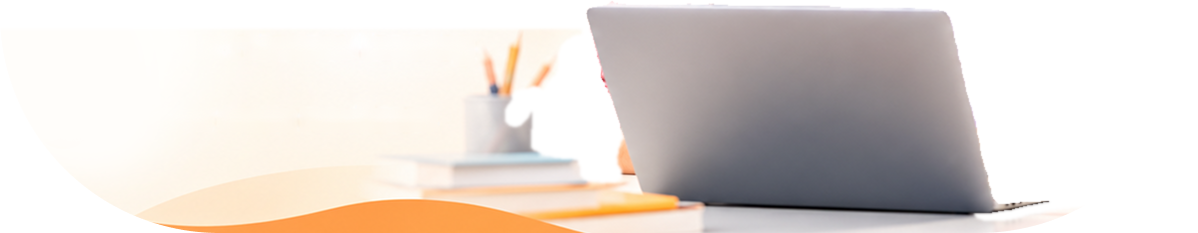
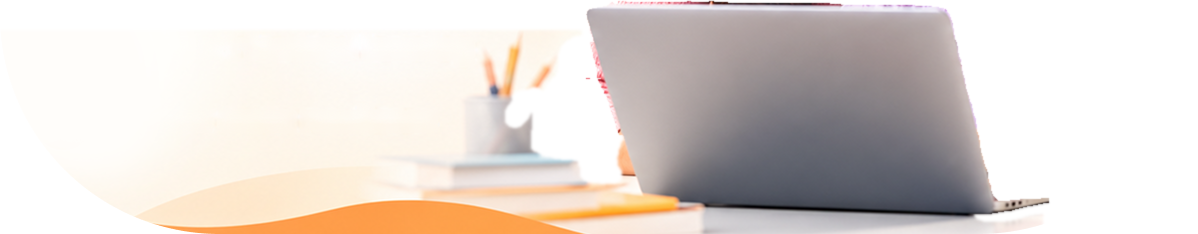
Parent cover: stronger, clearer motion (lean, nods, smile tone, card pop); hidden strip behind the laptop deepened
Claude-Session: https://claude.ai/code/session_01RrgPSv5FZEd99BayXaAJSG

diff --git a/parent-hero-animation/email-record.html b/parent-hero-animation/email-record.html
@@ -54,7 +54,7 @@
   /* --- cards (behind the people): outer = idle float, inner = pop / retreat --- */
   .float{ will-change:transform; }
   .idle .float{ animation:cardFloat var(--fdur) ease-in-out var(--fdelay) infinite; }
-  @keyframes cardFloat{ 0%,100%{ transform:translateY(0) rotate(0) } 50%{ transform:translateY(calc(100cqw/1198 * -12)) rotate(1.2deg) } }
+  @keyframes cardFloat{ 0%,100%{ transform:translateY(0) rotate(0) } 50%{ transform:translateY(calc(100cqw/1198 * -16)) rotate(1.6deg) } }
   .pop{ position:absolute; inset:0; }
   .popping{ will-change:transform, opacity; }
   .card-glow{ position:absolute; border-radius:50%; opacity:0; pointer-events:none;
@@ -68,7 +68,7 @@
   .moving{ will-change:transform, filter; }
   .breathe{ position:absolute; inset:0; transform-origin:71% 90%; }
   .idle .breathe{ animation:breathe 4s ease-in-out infinite; }
-  @keyframes breathe{ 0%,100%{ transform:scale(1) } 50%{ transform:scale(1.006) } }
+  @keyframes breathe{ 0%,100%{ transform:scale(1) } 50%{ transform:scale(var(--breathe, 1.006)) } }
   .overlay{ position:absolute; border-radius:50%; opacity:0; pointer-events:none; }
   .screen-glow{ background:radial-gradient(closest-side, var(--screen-glow), rgba(170,205,255,0)); mix-blend-mode:soft-light; }
   .smile-warm{ background:radial-gradient(closest-side, var(--smile-warm), rgba(255,190,140,0)); mix-blend-mode:soft-light; }
@@ -113,6 +113,14 @@ const HOLD_TIME     = EMAIL_MODE ? 2600 : 4000;
 const RETREAT_TIME  = 500;
 const RETREAT_STAGGER = 100;
 const BLOB_SPEED    = 1;         // >1 slower background drift
+// motion strength (canvas px are 1198-wide units; the email GIF is half that size)
+const SIT_BACK      = { rot:-2.2, dx:-6, dy:8, scale:.985 };   // loop start: sitting back, a touch cooler
+const LEAN          = { rot:1.3,  dx:6,  dy:4, scale:.995 };   // leaning in toward the laptop
+const NOD           = { rot:2.6,  dx:9,  dy:14 };              // bottom of each nod
+const SMILE_PEAK    = { rot:-1.3, scale:1.02 };                // leaning together at the smile peak
+const TONE_START    = 'saturate(.8) brightness(.93)';          // attentive tone
+const TONE_PEAK     = 'saturate(1.14) brightness(1.06)';       // smile peak (settles to the untouched photo)
+const SCREEN_GLOW   = .32, SMILE_WARM = .5, BREATHE = 1.012;
 const INTRO_TIME    = 700;       // people fade in (first run and Replay only)
 
 /* ============================================================
@@ -134,7 +142,7 @@ const LAYERS = {
   HEART: { card:{ file:'assets/layers/card-heart.png', x:966, y:78, w:186, h:175 }, icon:{ file:'assets/layers/heart-icon.png', x:1027, y:140, w:68, h:59 }, centre:[1059, 163], tilt:7.8 },
   CAP:   { card:{ file:'assets/layers/card-cap.png', x:1050, y:239, w:148, h:151 }, icon:{ file:'assets/layers/cap-icon.png', x:1092, y:288, w:66, h:55 }, centre:[1124, 314], tilt:10 },
   PEOPLE:     { file:'assets/layers/people.png', x:0, y:0, w:1222, h:824, z:5 },      // right and bottom edges padded 24 units
-  FOREGROUND: { file:'assets/layers/foreground.png', x:0, y:567, w:1198, h:233, z:6 }, // laptop, desk, books, pencil cup (still)
+  FOREGROUND: { file:'assets/layers/foreground.png', x:0, y:566, w:1198, h:234, z:6 }, // laptop, desk, books, pencil cup (still)
 };
 // where each card hides (from its centre): a point well inside the people's silhouette, measured from people.png's alpha
 const CARD_HIDE = { chart:{ dx:21, dy:98, fdur:'3.2s', fdelay:'0s' }, heart:{ dx:-42, dy:184, fdur:'3.8s', fdelay:'-.9s' }, cap:{ dx:-89, dy:49, fdur:'4.4s', fdelay:'-1.7s' } };
@@ -209,9 +217,10 @@ let runId = 0; const running = new Set();
 function anim(el, frames, opts){ const a = el.animate(frames, { fill:'forwards', ...opts }); running.add(a); return a; }
 function cancelAll(){ running.forEach(a => a.cancel()); running.clear(); }
 // attentive = the start of each loop (slightly cooler, sitting back a touch); smiling = the original photo, untouched
-const ATTENTIVE = 'saturate(.92) brightness(.97)', SMILING = 'saturate(1) brightness(1)';
-const BACK = 'rotate(-.8deg) scale(.994)', LEANED = 'rotate(.3deg) scale(.997)', TOGETHER = 'rotate(0deg) scale(1)';
-const hiddenT = g => `translate(${U(g.hide.dx)}, ${U(g.hide.dy)}) scale(.5) rotate(-6deg)`;
+const ATTENTIVE = TONE_START, SMILING = 'saturate(1) brightness(1)';
+const P = (o, sc = 1) => `translate(${U(o.dx || 0)}, ${U(o.dy || 0)}) rotate(${o.rot}deg) scale(${o.scale || sc})`;
+const BACK = P(SIT_BACK), LEANED = P(LEAN), NODDED = P(NOD, LEAN.scale), TOGETHER = P({ rot:0 });
+const hiddenT = g => `translate(${U(g.hide.dx)}, ${U(g.hide.dy)}) scale(.4) rotate(-8deg)`;
 
 function setStart(){
   hero.classList.remove('idle');
@@ -234,16 +243,16 @@ function setFinal(){
 async function teach(id){                                                  // Phase 1
   pose.classList.add('moving');
   anim(pose, [{ transform:BACK }, { transform:LEANED }], { duration:900, easing:'ease-in-out' });
-  anim(screenGlow, [{ opacity:0 }, { opacity:.15, offset:.5 }, { opacity:0 }], { duration:TEACH_TIME, easing:'ease-in-out' });
+  anim(screenGlow, [{ opacity:0 }, { opacity:SCREEN_GLOW, offset:.5 }, { opacity:0 }], { duration:TEACH_TIME, easing:'ease-in-out' });
   await sleep(900); if (id !== runId) return;
   for (let i = 0; i < 2; i++){                                             // two soft nods
-    anim(pose, [{ transform:LEANED }, { transform:`rotate(.9deg) translateY(${U(3)}) scale(.997)`, offset:.45 }, { transform:LEANED }], { duration:600, easing:'ease-in-out' });
+    anim(pose, [{ transform:LEANED }, { transform:NODDED, offset:.45 }, { transform:LEANED }], { duration:600, easing:'ease-in-out' });
     await sleep(600 + (i === 0 ? 50 : 0)); if (id !== runId) return;
   }
 }
 function smile(){                                                          // Phase 2 (returns at the smile peak)
-  anim(pose, [{ transform:LEANED, filter:ATTENTIVE }, { transform:'rotate(-.4deg) scale(1.012)', filter:'saturate(1.06) brightness(1.03)', offset:.6 }, { transform:TOGETHER, filter:SMILING }], { duration:SMILE_TIME + 600, easing:'ease-out' });
-  anim(smileWarm, [{ opacity:0 }, { opacity:.25, offset:.4 }, { opacity:0 }], { duration:SMILE_TIME + 900, easing:'ease-in-out' });
+  anim(pose, [{ transform:LEANED, filter:ATTENTIVE }, { transform:P(SMILE_PEAK), filter:TONE_PEAK, offset:.6 }, { transform:TOGETHER, filter:SMILING }], { duration:SMILE_TIME + 600, easing:'ease-out' });
+  anim(smileWarm, [{ opacity:0 }, { opacity:SMILE_WARM, offset:.4 }, { opacity:0 }], { duration:SMILE_TIME + 900, easing:'ease-in-out' });
   return sleep(SMILE_TIME * .6);
 }
 function popCard(g, delay){                                                // Phase 3
@@ -252,7 +261,7 @@ function popCard(g, delay){                                                // Ph
     { transform:hiddenT(g), opacity:0, offset:0 },
     { opacity:0, offset:.15 },                                             // still covered by the people
     { opacity:1, offset:.45 },
-    { transform:'translate(0,0) scale(1.06) rotate(0deg)', offset:.8 },
+    { transform:'translate(0,0) scale(1.1) rotate(0deg)', offset:.8 },
     { transform:'translate(0,0) scale(1) rotate(0deg)', opacity:1 }
   ], { duration:CARD_POP_TIME, delay, easing:'cubic-bezier(0.34, 1.4, 0.64, 1)' });
   anim(g.glow, [{ opacity:0 }, { opacity:.35, offset:.5 }, { opacity:0 }], { duration:700, delay:delay + CARD_POP_TIME * .3, easing:'ease-out' });
@@ -263,9 +272,9 @@ function cardDetails(){
   anim(G.chart.arrow, [{ clipPath:'inset(0 100% 0 0)' }, { clipPath:'inset(0 0% 0 0)' }], { duration:550, delay:land * .6 + 360, easing:'ease-out' });
   anim(dots, [{ opacity:0 }, { opacity:.9, offset:.8 }, { opacity:1 }], { duration:600, delay:0, easing:'ease-out' });
   const heartAt = CARD_STAGGER + land;
-  anim(G.heart.icon, [{ transform:'scale(1)' }, { transform:'scale(1.15)', offset:.2 }, { transform:'scale(1)', offset:.45 }, { transform:'scale(1.08)', offset:.65 }, { transform:'scale(1)' }], { duration:700, delay:heartAt, easing:'ease-in-out' });
+  anim(G.heart.icon, [{ transform:'scale(1)' }, { transform:'scale(1.25)', offset:.2 }, { transform:'scale(1)', offset:.45 }, { transform:'scale(1.12)', offset:.65 }, { transform:'scale(1)' }], { duration:700, delay:heartAt, easing:'ease-in-out' });
   const capAt = CARD_STAGGER * 2 + land;
-  anim(G.cap.icon, [{ transform:'none' }, { transform:`rotate(-4deg) translateY(${U(-2)})`, offset:.3 }, { transform:`rotate(4deg) translateY(${U(-2)})`, offset:.65 }, { transform:`translateY(${U(-2)})` }], { duration:500, delay:capAt, easing:'ease-in-out' });
+  anim(G.cap.icon, [{ transform:'none' }, { transform:`rotate(-8deg) translateY(${U(-4)})`, offset:.3 }, { transform:`rotate(7deg) translateY(${U(-4)})`, offset:.65 }, { transform:'none' }], { duration:650, delay:capAt, easing:'ease-in-out' });
   sparks.forEach((s, i) => {
     const at = (s.L.card === 'chart' ? land : capAt) + (i % 2) * 150;
     anim(s.el, [{ opacity:0, transform:'scale(0)' }, { opacity:1, transform:'scale(1)' }], { duration:260, delay:at, easing:'ease-out' });
@@ -308,6 +317,7 @@ async function play(firstRun){
 }
 
 /* ---------- start ---------- */
+hero.style.setProperty('--breathe', BREATHE);
 const reduce = matchMedia('(prefers-reduced-motion: reduce)');
 function showStatic(){ runId++; cancelAll(); hero.classList.remove('idle'); hero.classList.add('static'); setFinal(); }
 document.getElementById('replay').addEventListener('click', () => reduce.matches ? showStatic() : play(true));

diff --git a/parent-hero-animation/index.html b/parent-hero-animation/index.html
@@ -54,7 +54,7 @@
   /* --- cards (behind the people): outer = idle float, inner = pop / retreat --- */
   .float{ will-change:transform; }
   .idle .float{ animation:cardFloat var(--fdur) ease-in-out var(--fdelay) infinite; }
-  @keyframes cardFloat{ 0%,100%{ transform:translateY(0) rotate(0) } 50%{ transform:translateY(calc(100cqw/1198 * -12)) rotate(1.2deg) } }
+  @keyframes cardFloat{ 0%,100%{ transform:translateY(0) rotate(0) } 50%{ transform:translateY(calc(100cqw/1198 * -16)) rotate(1.6deg) } }
   .pop{ position:absolute; inset:0; }
   .popping{ will-change:transform, opacity; }
   .card-glow{ position:absolute; border-radius:50%; opacity:0; pointer-events:none;
@@ -68,7 +68,7 @@
   .moving{ will-change:transform, filter; }
   .breathe{ position:absolute; inset:0; transform-origin:71% 90%; }
   .idle .breathe{ animation:breathe 4s ease-in-out infinite; }
-  @keyframes breathe{ 0%,100%{ transform:scale(1) } 50%{ transform:scale(1.006) } }
+  @keyframes breathe{ 0%,100%{ transform:scale(1) } 50%{ transform:scale(var(--breathe, 1.006)) } }
   .overlay{ position:absolute; border-radius:50%; opacity:0; pointer-events:none; }
   .screen-glow{ background:radial-gradient(closest-side, var(--screen-glow), rgba(170,205,255,0)); mix-blend-mode:soft-light; }
   .smile-warm{ background:radial-gradient(closest-side, var(--smile-warm), rgba(255,190,140,0)); mix-blend-mode:soft-light; }
@@ -107,6 +107,14 @@ const HOLD_TIME     = EMAIL_MODE ? 2600 : 4000;
 const RETREAT_TIME  = 500;
 const RETREAT_STAGGER = 100;
 const BLOB_SPEED    = 1;         // >1 slower background drift
+// motion strength (canvas px are 1198-wide units; the email GIF is half that size)
+const SIT_BACK      = { rot:-2.2, dx:-6, dy:8, scale:.985 };   // loop start: sitting back, a touch cooler
+const LEAN          = { rot:1.3,  dx:6,  dy:4, scale:.995 };   // leaning in toward the laptop
+const NOD           = { rot:2.6,  dx:9,  dy:14 };              // bottom of each nod
+const SMILE_PEAK    = { rot:-1.3, scale:1.02 };                // leaning together at the smile peak
+const TONE_START    = 'saturate(.8) brightness(.93)';          // attentive tone
+const TONE_PEAK     = 'saturate(1.14) brightness(1.06)';       // smile peak (settles to the untouched photo)
+const SCREEN_GLOW   = .32, SMILE_WARM = .5, BREATHE = 1.012;
 const INTRO_TIME    = 700;       // people fade in (first run and Replay only)
 
 /* ============================================================
@@ -128,7 +136,7 @@ const LAYERS = {
   HEART: { card:{ file:'assets/layers/card-heart.png', x:966, y:78, w:186, h:175 }, icon:{ file:'assets/layers/heart-icon.png', x:1027, y:140, w:68, h:59 }, centre:[1059, 163], tilt:7.8 },
   CAP:   { card:{ file:'assets/layers/card-cap.png', x:1050, y:239, w:148, h:151 }, icon:{ file:'assets/layers/cap-icon.png', x:1092, y:288, w:66, h:55 }, centre:[1124, 314], tilt:10 },
   PEOPLE:     { file:'assets/layers/people.png', x:0, y:0, w:1222, h:824, z:5 },      // right and bottom edges padded 24 units
-  FOREGROUND: { file:'assets/layers/foreground.png', x:0, y:567, w:1198, h:233, z:6 }, // laptop, desk, books, pencil cup (still)
+  FOREGROUND: { file:'assets/layers/foreground.png', x:0, y:566, w:1198, h:234, z:6 }, // laptop, desk, books, pencil cup (still)
 };
 // where each card hides (from its centre): a point well inside the people's silhouette, measured from people.png's alpha
 const CARD_HIDE = { chart:{ dx:21, dy:98, fdur:'3.2s', fdelay:'0s' }, heart:{ dx:-42, dy:184, fdur:'3.8s', fdelay:'-.9s' }, cap:{ dx:-89, dy:49, fdur:'4.4s', fdelay:'-1.7s' } };
@@ -203,9 +211,10 @@ let runId = 0; const running = new Set();
 function anim(el, frames, opts){ const a = el.animate(frames, { fill:'forwards', ...opts }); running.add(a); return a; }
 function cancelAll(){ running.forEach(a => a.cancel()); running.clear(); }
 // attentive = the start of each loop (slightly cooler, sitting back a touch); smiling = the original photo, untouched
-const ATTENTIVE = 'saturate(.92) brightness(.97)', SMILING = 'saturate(1) brightness(1)';
-const BACK = 'rotate(-.8deg) scale(.994)', LEANED = 'rotate(.3deg) scale(.997)', TOGETHER = 'rotate(0deg) scale(1)';
-const hiddenT = g => `translate(${U(g.hide.dx)}, ${U(g.hide.dy)}) scale(.5) rotate(-6deg)`;
+const ATTENTIVE = TONE_START, SMILING = 'saturate(1) brightness(1)';
+const P = (o, sc = 1) => `translate(${U(o.dx || 0)}, ${U(o.dy || 0)}) rotate(${o.rot}deg) scale(${o.scale || sc})`;
+const BACK = P(SIT_BACK), LEANED = P(LEAN), NODDED = P(NOD, LEAN.scale), TOGETHER = P({ rot:0 });
+const hiddenT = g => `translate(${U(g.hide.dx)}, ${U(g.hide.dy)}) scale(.4) rotate(-8deg)`;
 
 function setStart(){
   hero.classList.remove('idle');
@@ -228,16 +237,16 @@ function setFinal(){
 async function teach(id){                                                  // Phase 1
   pose.classList.add('moving');
   anim(pose, [{ transform:BACK }, { transform:LEANED }], { duration:900, easing:'ease-in-out' });
-  anim(screenGlow, [{ opacity:0 }, { opacity:.15, offset:.5 }, { opacity:0 }], { duration:TEACH_TIME, easing:'ease-in-out' });
+  anim(screenGlow, [{ opacity:0 }, { opacity:SCREEN_GLOW, offset:.5 }, { opacity:0 }], { duration:TEACH_TIME, easing:'ease-in-out' });
   await sleep(900); if (id !== runId) return;
   for (let i = 0; i < 2; i++){                                             // two soft nods
-    anim(pose, [{ transform:LEANED }, { transform:`rotate(.9deg) translateY(${U(3)}) scale(.997)`, offset:.45 }, { transform:LEANED }], { duration:600, easing:'ease-in-out' });
+    anim(pose, [{ transform:LEANED }, { transform:NODDED, offset:.45 }, { transform:LEANED }], { duration:600, easing:'ease-in-out' });
     await sleep(600 + (i === 0 ? 50 : 0)); if (id !== runId) return;
   }
 }
 function smile(){                                                          // Phase 2 (returns at the smile peak)
-  anim(pose, [{ transform:LEANED, filter:ATTENTIVE }, { transform:'rotate(-.4deg) scale(1.012)', filter:'saturate(1.06) brightness(1.03)', offset:.6 }, { transform:TOGETHER, filter:SMILING }], { duration:SMILE_TIME + 600, easing:'ease-out' });
-  anim(smileWarm, [{ opacity:0 }, { opacity:.25, offset:.4 }, { opacity:0 }], { duration:SMILE_TIME + 900, easing:'ease-in-out' });
+  anim(pose, [{ transform:LEANED, filter:ATTENTIVE }, { transform:P(SMILE_PEAK), filter:TONE_PEAK, offset:.6 }, { transform:TOGETHER, filter:SMILING }], { duration:SMILE_TIME + 600, easing:'ease-out' });
+  anim(smileWarm, [{ opacity:0 }, { opacity:SMILE_WARM, offset:.4 }, { opacity:0 }], { duration:SMILE_TIME + 900, easing:'ease-in-out' });
   return sleep(SMILE_TIME * .6);
 }
 function popCard(g, delay){                                                // Phase 3
@@ -246,7 +255,7 @@ function popCard(g, delay){                                                // Ph
     { transform:hiddenT(g), opacity:0, offset:0 },
     { opacity:0, offset:.15 },                                             // still covered by the people
     { opacity:1, offset:.45 },
-    { transform:'translate(0,0) scale(1.06) rotate(0deg)', offset:.8 },
+    { transform:'translate(0,0) scale(1.1) rotate(0deg)', offset:.8 },
     { transform:'translate(0,0) scale(1) rotate(0deg)', opacity:1 }
   ], { duration:CARD_POP_TIME, delay, easing:'cubic-bezier(0.34, 1.4, 0.64, 1)' });
   anim(g.glow, [{ opacity:0 }, { opacity:.35, offset:.5 }, { opacity:0 }], { duration:700, delay:delay + CARD_POP_TIME * .3, easing:'ease-out' });
@@ -257,9 +266,9 @@ function cardDetails(){
   anim(G.chart.arrow, [{ clipPath:'inset(0 100% 0 0)' }, { clipPath:'inset(0 0% 0 0)' }], { duration:550, delay:land * .6 + 360, easing:'ease-out' });
   anim(dots, [{ opacity:0 }, { opacity:.9, offset:.8 }, { opacity:1 }], { duration:600, delay:0, easing:'ease-out' });
   const heartAt = CARD_STAGGER + land;
-  anim(G.heart.icon, [{ transform:'scale(1)' }, { transform:'scale(1.15)', offset:.2 }, { transform:'scale(1)', offset:.45 }, { transform:'scale(1.08)', offset:.65 }, { transform:'scale(1)' }], { duration:700, delay:heartAt, easing:'ease-in-out' });
+  anim(G.heart.icon, [{ transform:'scale(1)' }, { transform:'scale(1.25)', offset:.2 }, { transform:'scale(1)', offset:.45 }, { transform:'scale(1.12)', offset:.65 }, { transform:'scale(1)' }], { duration:700, delay:heartAt, easing:'ease-in-out' });
   const capAt = CARD_STAGGER * 2 + land;
-  anim(G.cap.icon, [{ transform:'none' }, { transform:`rotate(-4deg) translateY(${U(-2)})`, offset:.3 }, { transform:`rotate(4deg) translateY(${U(-2)})`, offset:.65 }, { transform:`translateY(${U(-2)})` }], { duration:500, delay:capAt, easing:'ease-in-out' });
+  anim(G.cap.icon, [{ transform:'none' }, { transform:`rotate(-8deg) translateY(${U(-4)})`, offset:.3 }, { transform:`rotate(7deg) translateY(${U(-4)})`, offset:.65 }, { transform:'none' }], { duration:650, delay:capAt, easing:'ease-in-out' });
   sparks.forEach((s, i) => {
     const at = (s.L.card === 'chart' ? land : capAt) + (i % 2) * 150;
     anim(s.el, [{ opacity:0, transform:'scale(0)' }, { opacity:1, transform:'scale(1)' }], { duration:260, delay:at, easing:'ease-out' });
@@ -302,6 +311,7 @@ async function play(firstRun){
 }
 
 /* ---------- start ---------- */
+hero.style.setProperty('--breathe', BREATHE);
 const reduce = matchMedia('(prefers-reduced-motion: reduce)');
 function showStatic(){ runId++; cancelAll(); hero.classList.remove('idle'); hero.classList.add('static'); setFinal(); }
 document.getElementById('replay').addEventListener('click', () => reduce.matches ? showStatic() : play(true));

diff --git a/parent-hero-animation/tools/people.py b/parent-hero-animation/tools/people.py
@@ -49,17 +49,19 @@ pink = cv2.morphologyEx(pink.astype(np.uint8), cv2.MORPH_OPEN, np.ones((3, 3), n
 a = np.maximum(a, cv2.GaussianBlur(pink.astype(np.float32), (0, 0), 0.8))
 # the people continue a little behind the laptop's top and left edges, so a small lean never shows a gap there
 lapd = cv2.dilate(lap.astype(np.uint8), np.ones((3, 3), np.uint8)).astype(bool)
-ext = np.zeros((H, W), np.float32)
+# EXT_IN: how far they continue behind the lid; EDGE: the lid's own soft edge rows/cols, kept still in the foreground
+EXT_IN, EDGE, SRC = 44, 4, 7
+ext = np.zeros((H, W), np.float32); edge_band = np.zeros((H, W), bool)
 for x in range(560, 1105):
     col = np.where(lap[:, x])[0]
     if len(col) == 0: continue
     y0 = col.min()
-    if a[max(y0 - 3, 0), x] > 0.9: ext[y0:min(y0 + 18, H), x] = 1
+    if a[max(y0 - SRC, 0), x] > 0.9: ext[y0 - EDGE:min(y0 + EXT_IN, H), x] = 1; edge_band[y0 - EDGE:y0, x] = True
 for y in range(570, 790):
     row = np.where(lap[y, :])[0]
     if len(row) == 0: continue
     x0_ = row.min()
-    if a[y, max(x0_ - 3, 0)] > 0.9: ext[y, x0_:x0_ + 14] = 1
+    if a[y, max(x0_ - SRC, 0)] > 0.9: ext[y, x0_ - EDGE:x0_ + EXT_IN] = 1; edge_band[y, x0_ - EDGE:x0_] = True
 a_body = a.copy()                                  # alpha before the hidden extension (used by the foreground)
 a = np.maximum(a, ext)
 gf = guided(cv2.cvtColor(I.astype(np.float32), cv2.COLOR_RGB2GRAY), a.astype(np.float32), 3, 1e-3)
@@ -90,12 +92,21 @@ near = lut[idx]; weak = (a > 0) & (a <= 0.04); F[weak] = I[ys[near[weak]], xs[ne
 w = np.clip((0.35 - a) / 0.35, 0, 1)[..., None] * soft[..., None]
 F = F * (1 - 0.5 * w) + I[ys[near], xs[near]] * 0.5 * w
 
+# hidden strip under the lid (and the lid's soft edge) takes the colour just outside the edge; visible people inside
+# the laptop outline (hands) are left alone
+hid = edge_band | (lap & (a_body < 0.5))
+ytop = np.full(W, H)
 for x in range(560, 1105):
-    col = np.where(ext[:, x] > 0)[0]
-    if len(col): F[col, x] = F[max(col.min() - 3, 0), x]
-for y in range(570, 790):
-    row = np.where(ext[y, :] > 0)[0]
-    if len(row): F[y, row] = np.where((ext[y, row] > 0)[:, None] & (F[y, row].sum(1, keepdims=True) == 0), F[y, max(row.min() - 3, 0)], F[y, row])
+    top = np.where(ext[:, x] > 0)[0]
+    if len(top) == 0: continue
+    ytop[x] = top.min() + EDGE; col = top[hid[top, x]]
+    F[col, x] = F[max(top.min() - 3, 0), x]
+for y in range(570, 790):                     # pixels nearer the left edge than the top edge take the sleeve colour
+    rr = np.where(lap[y, :])[0]
+    if len(rr) == 0 or ext[y, rr.min()] == 0: continue
+    x0_ = rr.min(); span = np.arange(x0_ - EDGE, min(x0_ + EXT_IN, W))
+    span = span[hid[y, span] & (ext[y, span] > 0) & ((span - x0_) < (y - ytop[span]))]
+    if len(span): F[y, span] = F[y, max(x0_ - EDGE - 3, 0)]
 # holes fully enclosed by the people and the laptop (the blouse just above the lid) are people too
 Mfull = ((a > 0.5) | lap).astype(np.uint8)
 inv_h = (1 - Mfull).copy(); ffh = np.zeros((H + 2, W + 2), np.uint8); cv2.floodFill(inv_h, ffh, (0, 0), 0)
@@ -113,7 +124,7 @@ np.save(f'{SP}/alpha_people.npy', a)
 # foreground (static): the laptop, plus the desk zone (cup, books, desk, wave) wherever the people are not.
 # The background in the desk zone is static too (the drift layer fades out there), so a rectangle is fine,
 # but it keeps 6px away from the people so they move freely over the still background.
-fg = (lap & (a_body < 0.5)).astype(np.float32)
+fg = ((lap & (a_body < 0.5)) | edge_band).astype(np.float32)
 zone = np.zeros((H, W), np.float32); zone[596:H, 0:1105] = 1
 near_people = cv2.dilate((a_body > 0.05).astype(np.uint8), cv2.getStructuringElement(cv2.MORPH_ELLIPSE, (13, 13))).astype(bool)
 zone[near_people & ~lap] = 0
